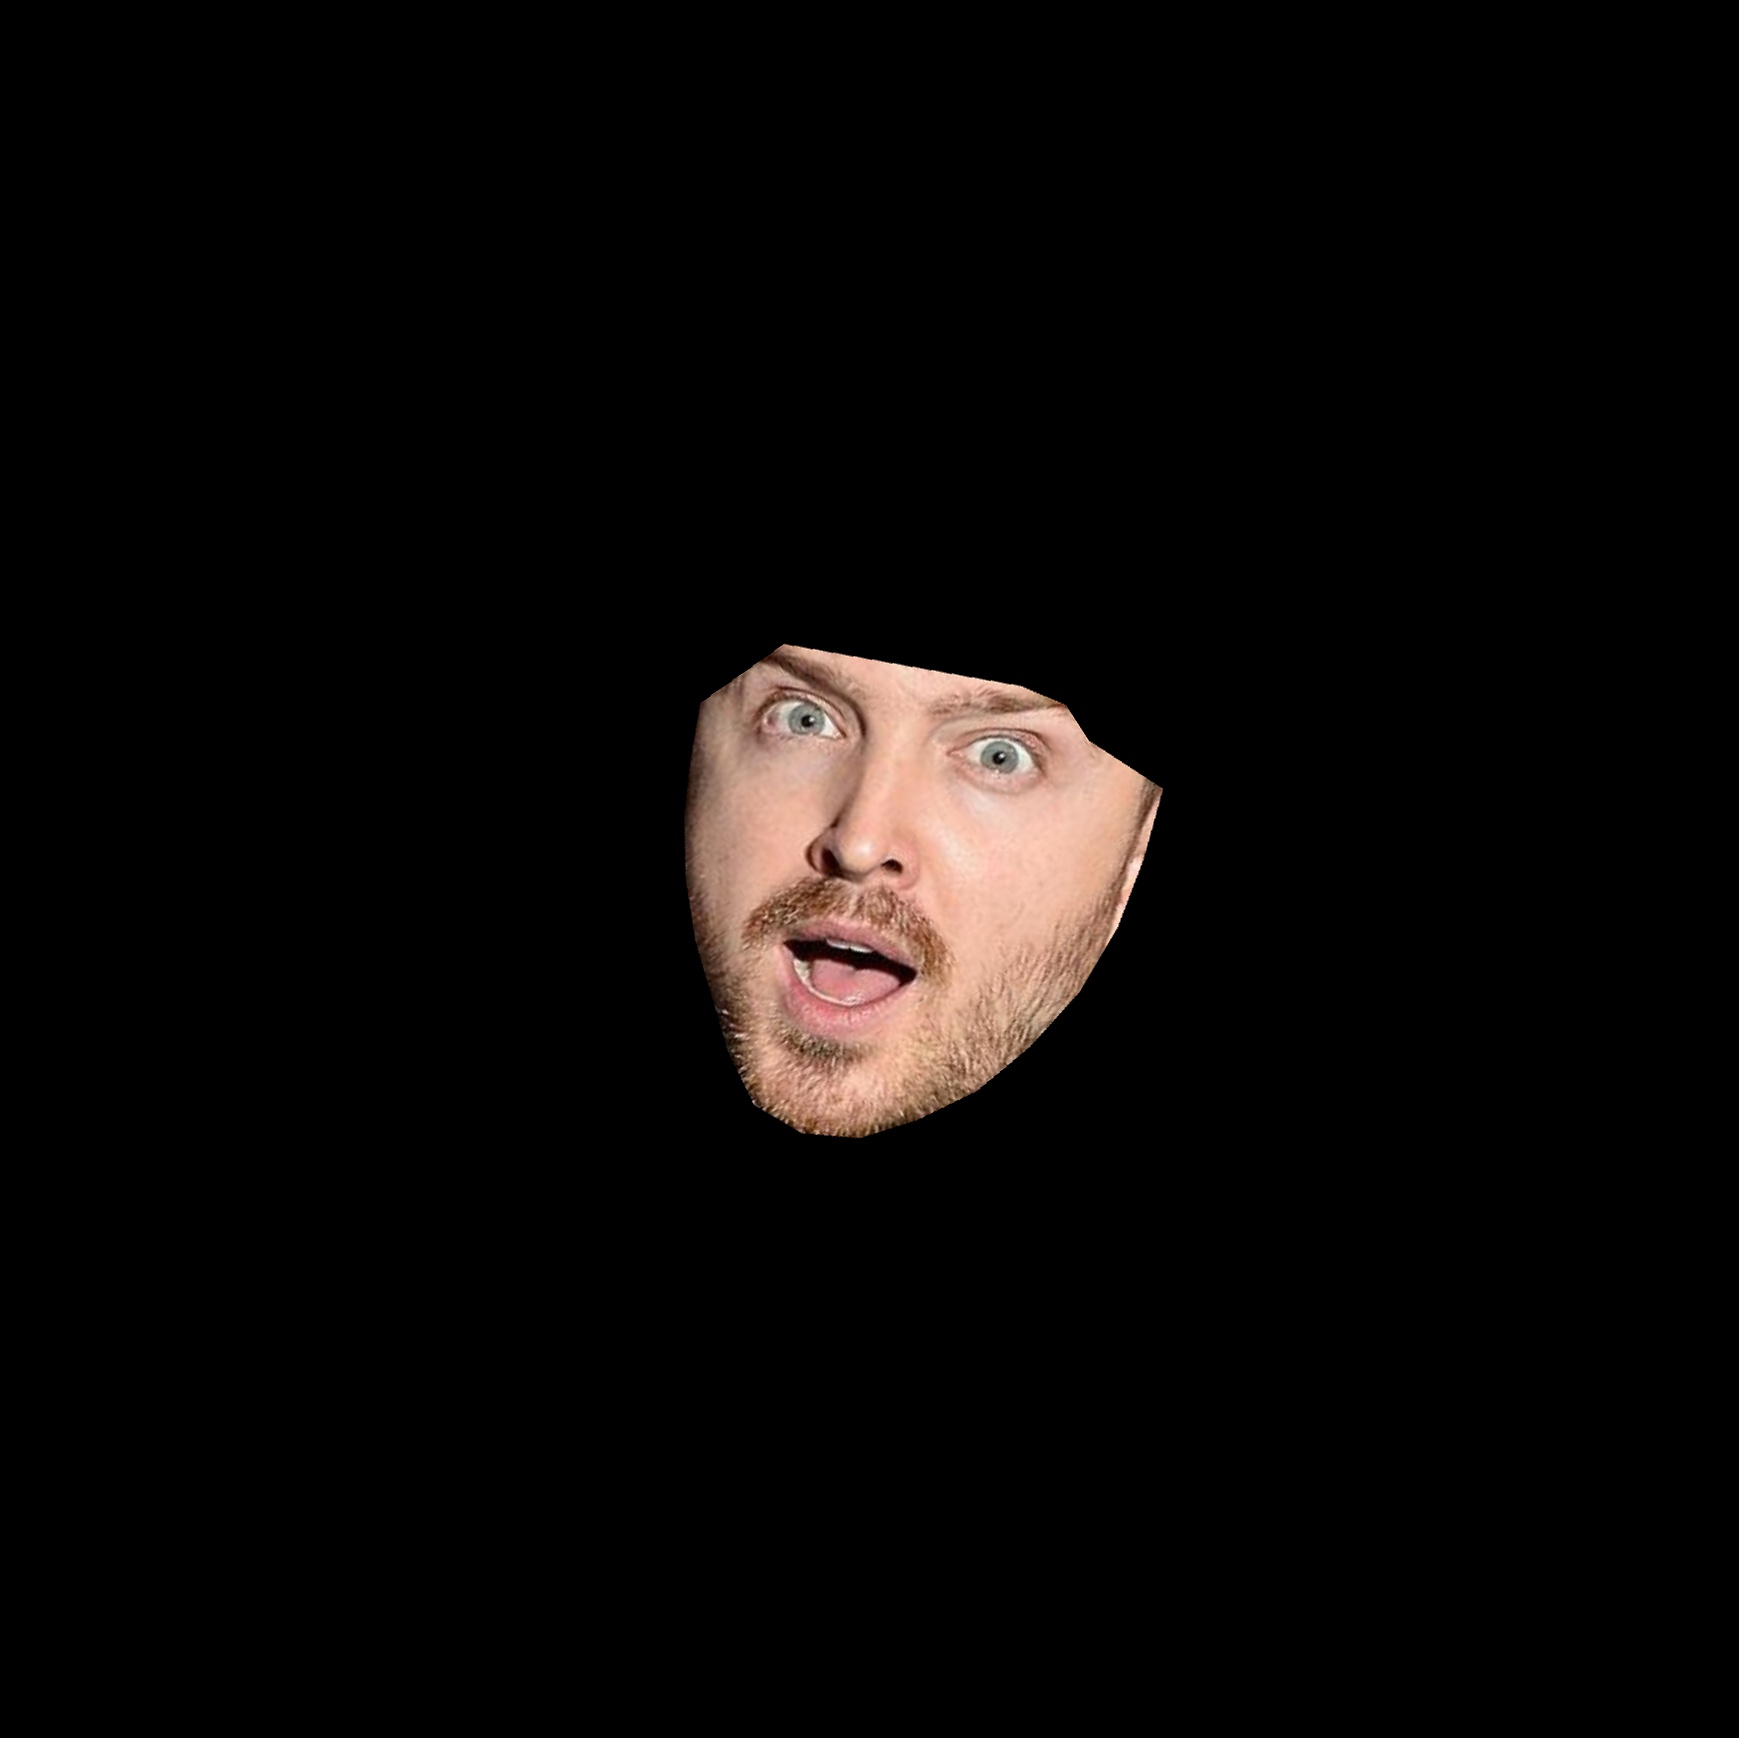
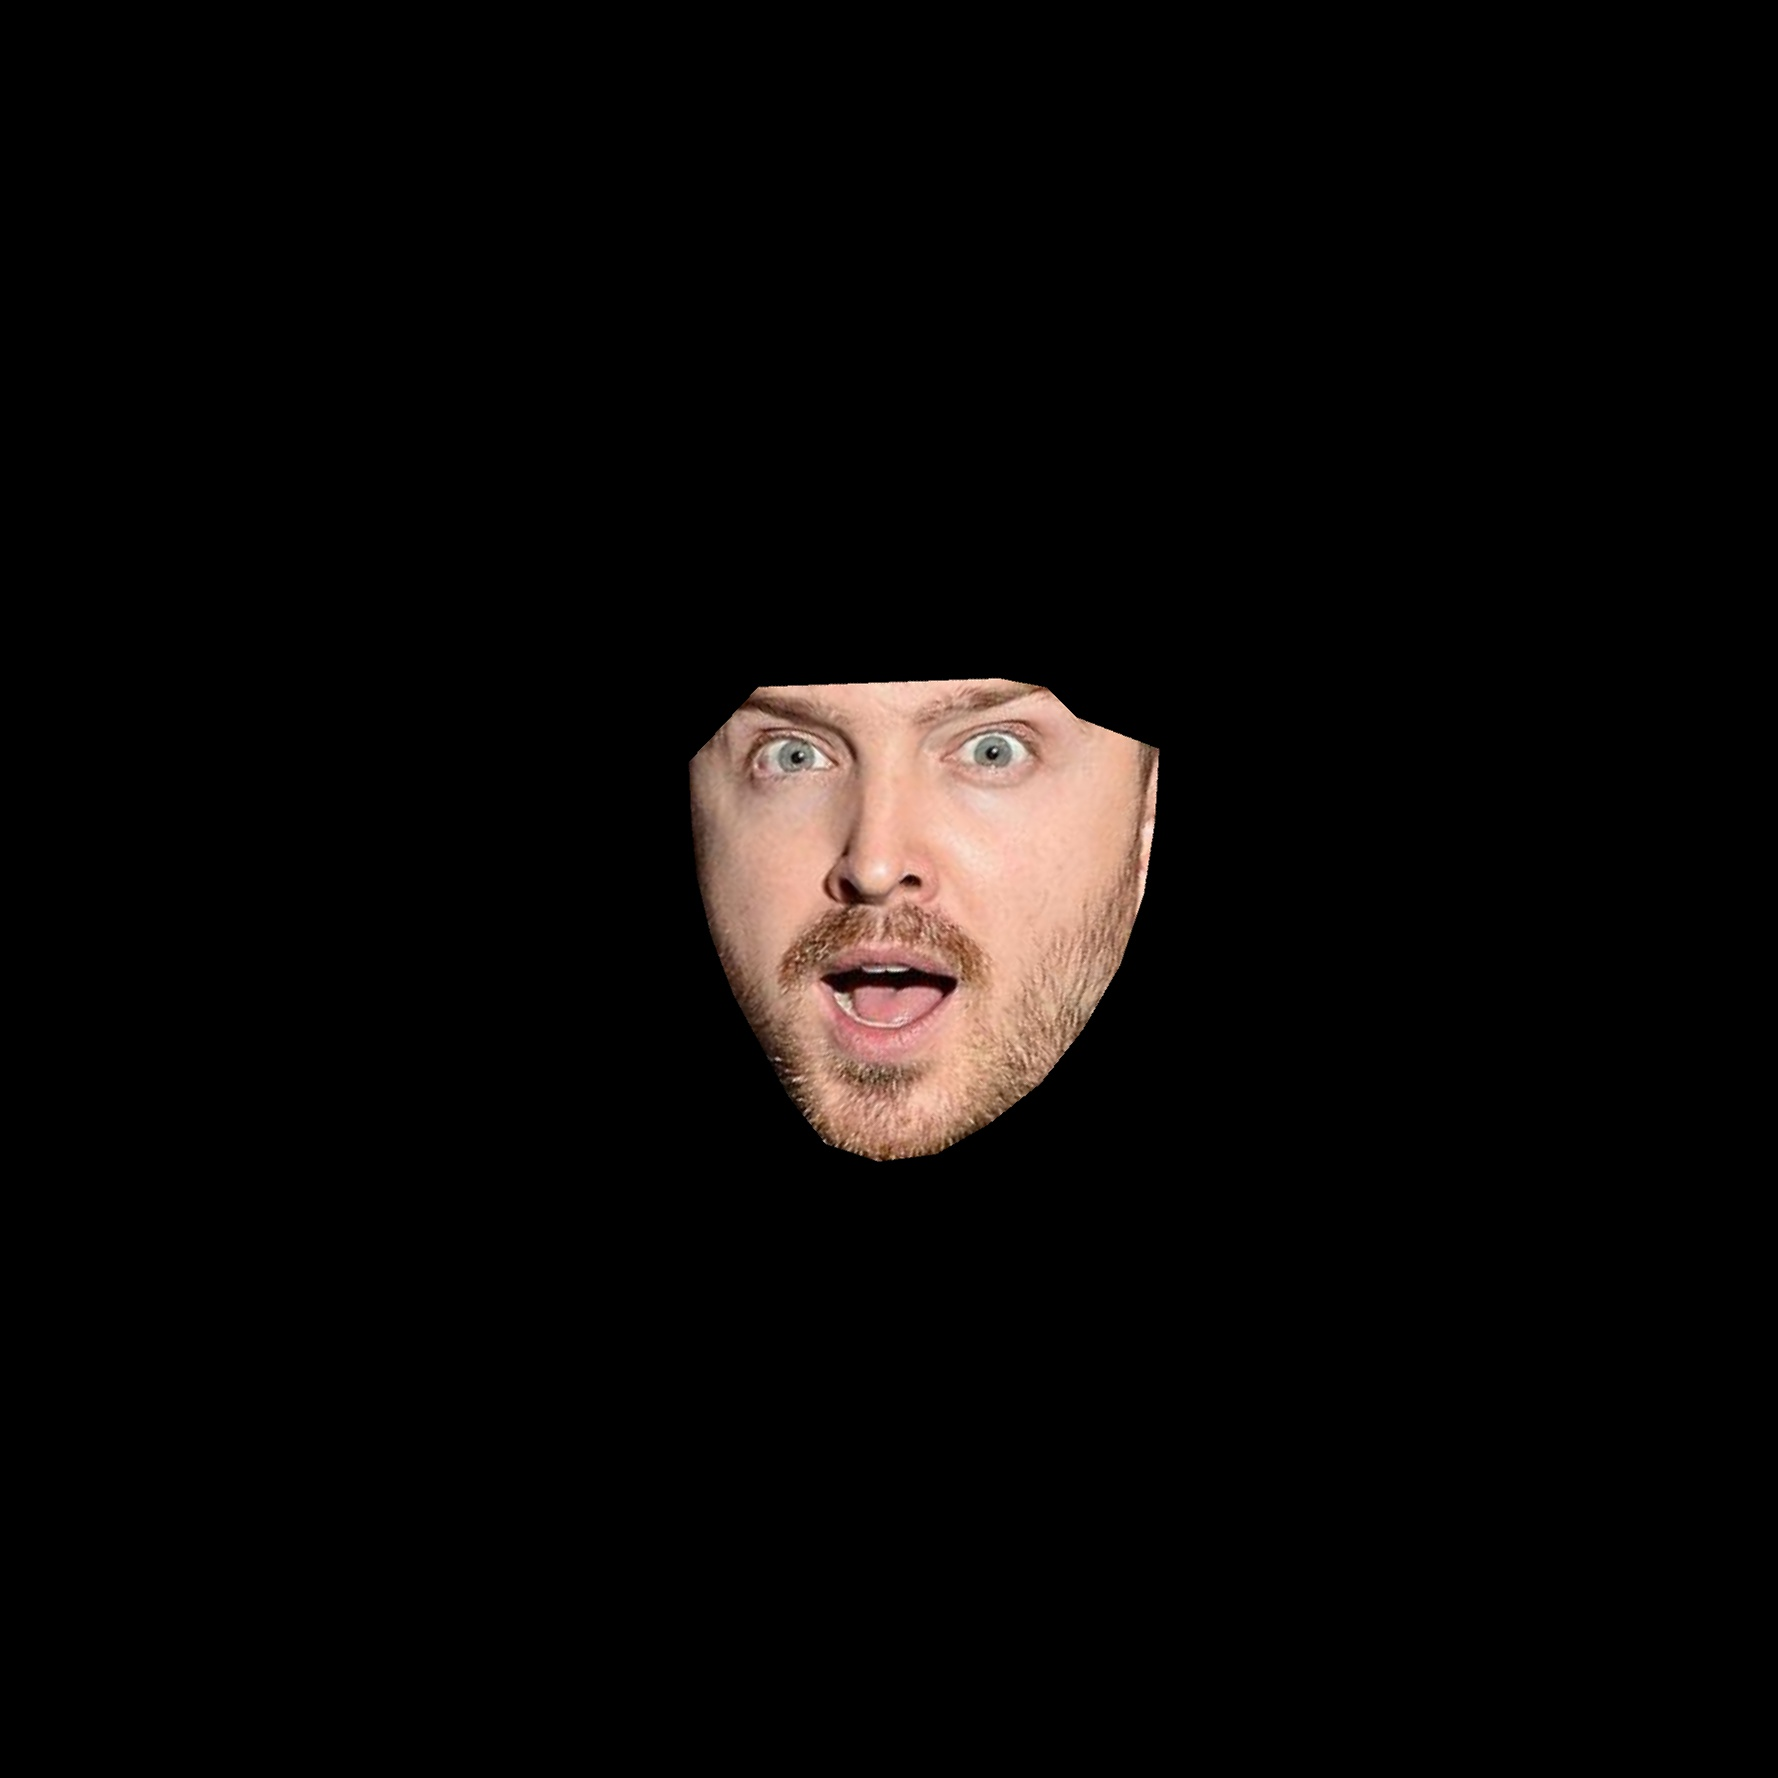
ada

Changed region(s): [[0.3726, 0.3728, 0.6832, 0.6525]]

diff --git a/SharedCode/src/3DNormalization.cpp b/SharedCode/src/3DNormalization.cpp
@@ -1,6 +1,17 @@
 #include "3DNormalization.h"
 
 namespace face_ver {
+	static void printMat(char* name, cv::Mat mat)
+	{
+		std::cout << name << std::endl;
+		for (int i = 0; i < mat.size().height; i++) {
+			for (int j = 0; j < mat.size().width; j++) {
+				std::cout << mat.at<float>(i, j) << " ";
+			}
+			std::cout << std::endl;
+		}
+		std::cout << std::endl;
+	}
 
 	void normalize3D(
 		dlib::array2d<rgb_pixel>& img,
@@ -49,14 +60,23 @@ namespace face_ver {
 			}
 
 			// estimate 3D - 2D transformation
-			std::cout << model3D.type() << " " << points2D.type() << std::endl;
 			cv::Mat rvec, tvec;
 			bool res = cv::solvePnP(model3D, points2D, cameraMat, cv::Mat(), rvec, tvec, false);
+
+			printMat("rvec", rvec);
+			printMat("tvec", tvec);
 
 			// transform rotation matrix
 			cv::Mat jacobian, rotCameraMatrix;
 			cv::Rodrigues(rvec, rotCameraMatrix, jacobian);
+			printMat("rot camera matrix", rotCameraMatrix);
 
+			
+			cv::Mat projectedModel(68, 2, CV_32F);
+			projectPoints(model3D, rvec, tvec, cameraMat, cv::Mat(), projectedModel);
+			printMat("projectedModel", projectedModel);
+			
+			
 			// compute euler angles
 			cv::Vec3d eulerAngles;
 			cv::Mat cameraMat, rotMatrix, transVect, rotMatrixX, rotMatrixY, rotMatrixZ;
@@ -74,11 +94,21 @@ namespace face_ver {
 				rotMatrixZ,
 				eulerAngles);
 
-			// print euler angles
-			std::cout << "yaw " << eulerAngles[0] << "\npitch " << eulerAngles[1] << "\nroll " << eulerAngles[2] << std::endl;
+			// project 3D model on points
+			
+			cv::Mat RR;
+			cv::Rodrigues(rvec, RR); // R is 3x3
 
-			// rotation parameters.
-			double angle = eulerAngles[2];
+			RR = RR.t();  // rotation of inverse
+			tvec = -RR * tvec; // translation of inverse
+
+			cv::Mat T(4, 4, RR.type()); // T is 4x4
+			T(cv::Range(0, 3), cv::Range(0, 3)) = RR * 1; // copies R into T
+			T(cv::Range(0, 3), cv::Range(3, 4)) = tvec * 1; // copies tvec into T
+			
+			
+			// rotation parameters -- transformed into radians
+			double angle = eulerAngles[2] * pi / 180;
 
 			// rectangle centered around the mass center of the face		
 			dlib::dpoint m = dlib::dpoint(0, 0);

diff --git a/SharedCode/src/2DNormalization.cpp b/SharedCode/src/2DNormalization.cpp
@@ -88,6 +88,7 @@ namespace face_ver {
 
 			// rotation parameters.
 			double angle = std::atan2(p.y(), p.x());
+			std::cout << angle << std::endl;
 
 			// we use as width/height the scale value estimated by the similarity transform
 			const double scale = length(p);
